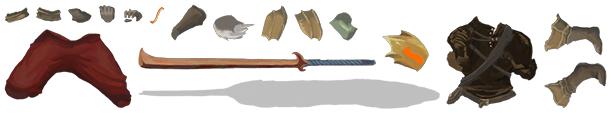
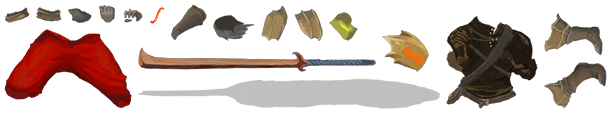
Modified the FireBlade character images a bit. Tweaked Convert, Sudden Strikes, and Thirst for Blood cards. Modified Sudden Strikes hover text to accurately display attack damage, with green/red text color based on modifiers. Sudden Strikes no longer gets a bonus from pen nib relic.

diff --git a/src/main/java/FireBlade/powers/JabsPower.java b/src/main/java/FireBlade/powers/JabsPower.java
@@ -1,9 +1,11 @@
 package FireBlade.powers;
 
+import FireBlade.cards.Other.OneDamageStrike;
+import basemod.interfaces.OnPowersModifiedSubscriber;
 import com.badlogic.gdx.graphics.g2d.TextureAtlas;
 import com.megacrit.cardcrawl.actions.AbstractGameAction;
 import com.megacrit.cardcrawl.actions.common.DamageAction;
-import com.megacrit.cardcrawl.cards.AbstractCard;
+import com.megacrit.cardcrawl.actions.common.DrawCardAction;
 import com.megacrit.cardcrawl.cards.DamageInfo;
 import com.megacrit.cardcrawl.core.AbstractCreature;
 import com.megacrit.cardcrawl.core.CardCrawlGame;
@@ -12,14 +14,14 @@ import com.megacrit.cardcrawl.helpers.ImageMaster;
 import com.megacrit.cardcrawl.localization.PowerStrings;
 import com.megacrit.cardcrawl.monsters.AbstractMonster;
 import com.megacrit.cardcrawl.powers.AbstractPower;
-import FireBlade.cards.Uncommons.QuickAttack;
 
-public class JabsPower extends AbstractPower {
+public class JabsPower extends AbstractPower implements OnPowersModifiedSubscriber {
     public static PowerType POWER_TYPE = PowerType.BUFF;
 
     private static final PowerStrings powerStrings = CardCrawlGame.languagePack.getPowerStrings("FireBladeMod:JabsPower");
     public static final String NAME = powerStrings.NAME;
     public static final String[] DESCRIPTIONS = powerStrings.DESCRIPTIONS;
+    public final OneDamageStrike dummyCard;
 
     public JabsPower(AbstractCreature owner, int amount) {
         this.ID = "FireBladeMod:JabsPower";
@@ -32,19 +34,33 @@ public class JabsPower extends AbstractPower {
         this.amount = amount;
         this.name = (CardCrawlGame.languagePack.getPowerStrings(this.ID)).NAME;
 
+        this.dummyCard = new OneDamageStrike();
+
+        updateDescription();
+    }
+
+    public void receivePowersModified() {
         updateDescription();
     }
 
     public void atEndOfTurn(boolean isPlayer) {
         for (int i = 0; i < this.amount; i++) {
-            AbstractMonster target = AbstractDungeon.getMonsters().getRandomMonster((AbstractMonster) null, true, AbstractDungeon.cardRandomRng);
-            AbstractCard card = new QuickAttack();  // Need an attack card with proper damage amount
+            AbstractMonster target = AbstractDungeon.getMonsters().getRandomMonster( null, true, AbstractDungeon.cardRandomRng);
             if (target != null) {
-                card.calculateCardDamage((AbstractMonster) target);
-                this.addToTop(new DamageAction(target, new DamageInfo(AbstractDungeon.player, card.damage, card.damageTypeForTurn), AbstractGameAction.AttackEffect.SLASH_DIAGONAL));
+                dummyCard.calculateCardDamage(target);
+                this.addToTop(new DamageAction(target, new DamageInfo(AbstractDungeon.player, dummyCard.damage, dummyCard.damageTypeForTurn),
+                        AbstractGameAction.AttackEffect.SLASH_DIAGONAL));
             }
         }
     }
 
-    public void updateDescription() { this.description = DESCRIPTIONS[0] + this.amount + DESCRIPTIONS[1]; }
+    public void updateDescription() {
+        dummyCard.applyPowers();
+        if (!dummyCard.isDamageModified)
+            this.description = this.DESCRIPTIONS[0] + "#b" + dummyCard.damage + DESCRIPTIONS[1] + this.amount + DESCRIPTIONS[2];
+        else if (dummyCard.damage > dummyCard.baseDamage)
+            this.description = this.DESCRIPTIONS[0] + "#g" + dummyCard.damage + DESCRIPTIONS[1] + this.amount + DESCRIPTIONS[2];
+        else
+            this.description = this.DESCRIPTIONS[0] + "#r" + dummyCard.damage + DESCRIPTIONS[1] + this.amount + DESCRIPTIONS[2];
+    }
 }

diff --git a/src/main/java/FireBlade/cards/Other/OneDamageStrike.java b/src/main/java/FireBlade/cards/Other/OneDamageStrike.java
@@ -1,0 +1,70 @@
+package FireBlade.cards.Other;
+
+import basemod.abstracts.CustomCard;
+import com.megacrit.cardcrawl.actions.AbstractGameAction;
+import com.megacrit.cardcrawl.actions.common.DamageAction;
+import com.megacrit.cardcrawl.cards.AbstractCard;
+import com.megacrit.cardcrawl.cards.DamageInfo;
+import com.megacrit.cardcrawl.characters.AbstractPlayer;
+import com.megacrit.cardcrawl.core.CardCrawlGame;
+import com.megacrit.cardcrawl.dungeons.AbstractDungeon;
+import com.megacrit.cardcrawl.localization.CardStrings;
+import com.megacrit.cardcrawl.monsters.AbstractMonster;
+
+
+public class OneDamageStrike extends CustomCard
+{
+    public static final String ID = "FireBladeMod:OneDamageStrike";
+    public static final String NAME;
+    public static final String DESCRIPTION;
+    public static final String IMG_PATH = "theFireBladeResources/images/cardImages/StrikeFireBlade.png";
+    private static final CardStrings cardStrings;
+    private static final CardType TYPE = CardType.ATTACK;
+    private static final CardRarity RARITY = CardRarity.SPECIAL;
+    private static final CardTarget TARGET = CardTarget.ENEMY;
+    private static final int COST = 0;
+
+    public OneDamageStrike() {
+        super(ID, NAME, IMG_PATH, COST, DESCRIPTION, TYPE, CardColor.COLORLESS, RARITY, TARGET);
+        this.baseDamage = 1;
+
+        this.tags.add(CardTags.STRIKE);
+    }
+
+    public void use(AbstractPlayer p, AbstractMonster m) {
+        addToBot(new DamageAction(m, new DamageInfo(p, this.damage, this.damageTypeForTurn), AbstractGameAction.AttackEffect.SLASH_DIAGONAL));
+    }
+
+    public void applyPowers() {
+        super.applyPowers();
+        if (AbstractDungeon.player.hasPower("Pen Nib"))
+            damage /= 2;
+
+        if (damage == baseDamage)
+            isDamageModified = false;
+    }
+
+    public void calculateCardDamage(AbstractMonster m) {
+        super.calculateCardDamage(m);
+
+        if (AbstractDungeon.player.hasPower("Pen Nib"))
+            damage /= 2;
+
+        if (damage == baseDamage)
+            isDamageModified = false;
+    }
+
+    public AbstractCard makeCopy() { return new OneDamageStrike(); }
+
+    public void upgrade() {
+        if (!this.upgraded) {
+        upgradeName();
+        }
+    }
+  
+    static  {
+        cardStrings = CardCrawlGame.languagePack.getCardStrings(ID);
+        NAME = cardStrings.NAME;
+        DESCRIPTION = cardStrings.DESCRIPTION;
+    }
+}

diff --git a/src/main/java/FireBlade/cards/Rares/Convert.java b/src/main/java/FireBlade/cards/Rares/Convert.java
@@ -1,17 +1,18 @@
 package FireBlade.cards.Rares;
 
+import FireBlade.cards.CustomFireBladeCard;
 import FireBlade.enums.TheFireBladeEnum;
 import FireBlade.powers.PyroPower;
-import basemod.abstracts.CustomCard;
 import com.megacrit.cardcrawl.actions.common.ApplyPowerAction;
 import com.megacrit.cardcrawl.cards.AbstractCard;
 import com.megacrit.cardcrawl.characters.AbstractPlayer;
 import com.megacrit.cardcrawl.core.CardCrawlGame;
 import com.megacrit.cardcrawl.localization.CardStrings;
 import com.megacrit.cardcrawl.monsters.AbstractMonster;
+import com.megacrit.cardcrawl.powers.DexterityPower;
 import com.megacrit.cardcrawl.powers.StrengthPower;
 
-public class Convert extends CustomCard {
+public class Convert extends CustomFireBladeCard {
 
     public static final String ID = "FireBladeMod:Convert";
     public static final String NAME;
@@ -26,11 +27,13 @@ public class Convert extends CustomCard {
     public Convert() {
         super(ID, NAME, IMG_PATH, COST, DESCRIPTION, TYPE, TheFireBladeEnum.THE_FIREBLADE_ORANGE, RARITY, TARGET);
         this.magicNumber = this.baseMagicNumber = 3;
+        this.magicNumberTwo = this.baseMagicNumberTwo = 1;
     }
 
     public void use(AbstractPlayer p, AbstractMonster m) {
         addToBot(new ApplyPowerAction(p, p, new PyroPower(p, magicNumber), magicNumber));
-        addToBot(new ApplyPowerAction(p, p, new StrengthPower(p, -magicNumber), -magicNumber));
+        addToBot(new ApplyPowerAction(p, p, new StrengthPower(p, -magicNumberTwo), -magicNumberTwo));
+        addToBot(new ApplyPowerAction(p, p, new DexterityPower(p, -magicNumberTwo), -magicNumberTwo));
     }
 
     public AbstractCard makeCopy() { return new Convert(); }

diff --git a/src/main/java/FireBlade/FireBladeMod.java b/src/main/java/FireBlade/FireBladeMod.java
@@ -15,7 +15,10 @@ import com.badlogic.gdx.graphics.Texture;
 import com.evacipated.cardcrawl.mod.stslib.Keyword;
 import com.evacipated.cardcrawl.modthespire.lib.SpireInitializer;
 import com.google.gson.Gson;
+import com.megacrit.cardcrawl.dungeons.AbstractDungeon;
 import com.megacrit.cardcrawl.helpers.CardHelper;
+import com.megacrit.cardcrawl.powers.AbstractPower;
+import com.megacrit.cardcrawl.rooms.AbstractRoom;
 import org.apache.logging.log4j.LogManager;
 import org.apache.logging.log4j.Logger;
 import FireBlade.cards.Basics.*;
@@ -36,7 +39,8 @@ public class FireBladeMod implements
         EditRelicsSubscriber,
         EditKeywordsSubscriber,
         AddAudioSubscriber,
-        PostInitializeSubscriber{
+        PostInitializeSubscriber,
+        OnPowersModifiedSubscriber {
 
     public static final Logger logger = LogManager.getLogger(FireBladeMod.class.getName());
     private static String modID;
@@ -263,5 +267,16 @@ public class FireBladeMod implements
         BaseMod.registerModBadge(badgeTexture, "The FireBlade", "Bryan", "This mod adds a new character, the FireBlade.",
                 FireBladeSettings.createSettingsPanel());
         logger.info("Done loading badge Image");
+    }
+
+    public void receivePowersModified() {
+        if ((AbstractDungeon.getCurrRoom()).phase == AbstractRoom.RoomPhase.COMBAT &&
+                !AbstractDungeon.getMonsters().areMonstersBasicallyDead()) {
+            for (AbstractPower p : AbstractDungeon.player.powers) {
+                if (p instanceof OnPowersModifiedSubscriber) {
+                    ((OnPowersModifiedSubscriber)p).receivePowersModified();
+                }
+            }
+        }
     }
 }

diff --git a/src/main/java/FireBlade/cards/Rares/ThirstForBlood.java b/src/main/java/FireBlade/cards/Rares/ThirstForBlood.java
@@ -2,6 +2,7 @@ package FireBlade.cards.Rares;
 
 import FireBlade.cards.CustomFireBladeCard;
 import FireBlade.enums.TheFireBladeEnum;
+import FireBlade.powers.PyroPower;
 import com.megacrit.cardcrawl.actions.AbstractGameAction;
 import com.megacrit.cardcrawl.actions.common.ApplyPowerAction;
 import com.megacrit.cardcrawl.actions.common.DamageAction;
@@ -29,7 +30,7 @@ public class ThirstForBlood extends CustomFireBladeCard {
     public ThirstForBlood() {
         super(ID, NAME, IMG_PATH, COST, DESCRIPTION, TYPE, TheFireBladeEnum.THE_FIREBLADE_ORANGE, RARITY, TARGET);
         this.baseDamage = 15;
-        this.magicNumber = this.baseMagicNumber = 4;
+        this.magicNumber = this.baseMagicNumber = 3;
         this.magicNumberTwo = this.baseMagicNumberTwo = 1;
     }
 
@@ -37,6 +38,7 @@ public class ThirstForBlood extends CustomFireBladeCard {
         addToBot(new DamageAction(m, new DamageInfo(p, this.damage, this.damageTypeForTurn), AbstractGameAction.AttackEffect.SLASH_HEAVY));
         addToBot(new ApplyPowerAction(p, p, new StrengthPower(p, this.magicNumber), this.magicNumber));
         addToBot(new ApplyPowerAction(p, p, new DexterityPower(p, -this.magicNumberTwo), -this.magicNumberTwo));
+        addToBot(new ApplyPowerAction(p, p, new PyroPower(p, -this.magicNumberTwo), -this.magicNumberTwo));
     }
 
     public AbstractCard makeCopy() { return new ThirstForBlood(); }
@@ -44,7 +46,8 @@ public class ThirstForBlood extends CustomFireBladeCard {
     public void upgrade() {
         if (!this.upgraded) {
             upgradeName();
-            upgradeMagicNumber(2);
+            upgradeDamage(5);
+            upgradeMagicNumber(1);
         }
     }
 

diff --git a/src/main/java/FireBlade/cards/Rares/UnexpectedStrikes.java b/src/main/java/FireBlade/cards/Rares/UnexpectedStrikes.java
@@ -7,6 +7,7 @@ import com.megacrit.cardcrawl.actions.common.ApplyPowerAction;
 import com.megacrit.cardcrawl.cards.AbstractCard;
 import com.megacrit.cardcrawl.characters.AbstractPlayer;
 import com.megacrit.cardcrawl.core.CardCrawlGame;
+import com.megacrit.cardcrawl.dungeons.AbstractDungeon;
 import com.megacrit.cardcrawl.localization.CardStrings;
 import com.megacrit.cardcrawl.monsters.AbstractMonster;
 
@@ -24,11 +25,22 @@ public class UnexpectedStrikes extends CustomCard {
 
     public UnexpectedStrikes() {
         super(ID, NAME, IMG_PATH, COST, DESCRIPTION, TYPE, TheFireBladeEnum.THE_FIREBLADE_ORANGE, RARITY, TARGET);
+        this.baseDamage = 1;
         this.magicNumber = this.baseMagicNumber = 2;
+        this.tags.add(CardTags.STRIKE);
     }
 
     public void use(AbstractPlayer p, AbstractMonster m) {
         addToBot(new ApplyPowerAction(p, p, new JabsPower(p, this.magicNumber), this.magicNumber));
+    }
+
+    public void applyPowers() {
+        super.applyPowers();
+        if (AbstractDungeon.player.hasPower("Pen Nib"))
+            damage /= 2;
+
+        if (damage == baseDamage)
+            isDamageModified = false;
     }
 
     public AbstractCard makeCopy() { return new UnexpectedStrikes(); }

diff --git a/src/main/java/FireBlade/cards/Rares/Steroids.java b/src/main/java/FireBlade/cards/Rares/Steroids.java
@@ -35,7 +35,6 @@ public class Steroids extends CustomCard {
         addToBot(new DrawCardAction(p, 3));
         addToBot(new GainEnergyAction(3));
         addToBot(new ApplyPowerAction(p, p, new StrengthPower(p, -1), -1));
-        addToBot(new ApplyPowerAction(p, p, new DexterityPower(p, -1), -1));
         addToBot(new ApplyPowerAction(p, p, new PyroPower(p, -1), -1));
     }
 

diff --git a/src/main/java/FireBlade/characters/TheFireBlade.java b/src/main/java/FireBlade/characters/TheFireBlade.java
@@ -119,7 +119,7 @@ public class TheFireBlade extends CustomPlayer {
     }
 
     public CharSelectInfo getLoadout() {
-        return new CharSelectInfo(NAMES[0], TEXT[0], 80, 80, 0, 99, 5, this,
+        return new CharSelectInfo(NAMES[0], TEXT[0], 70, 70, 0, 99, 5, this,
                 getStartingRelics(), getStartingDeck(), false);
     }
 
